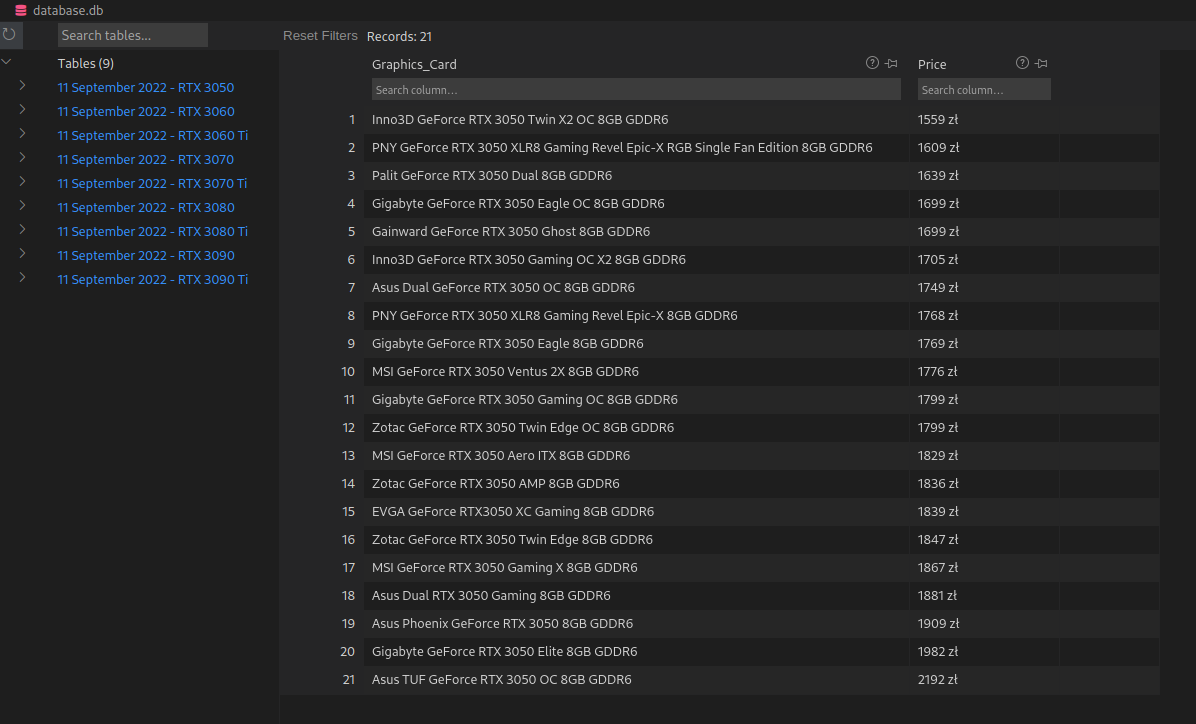
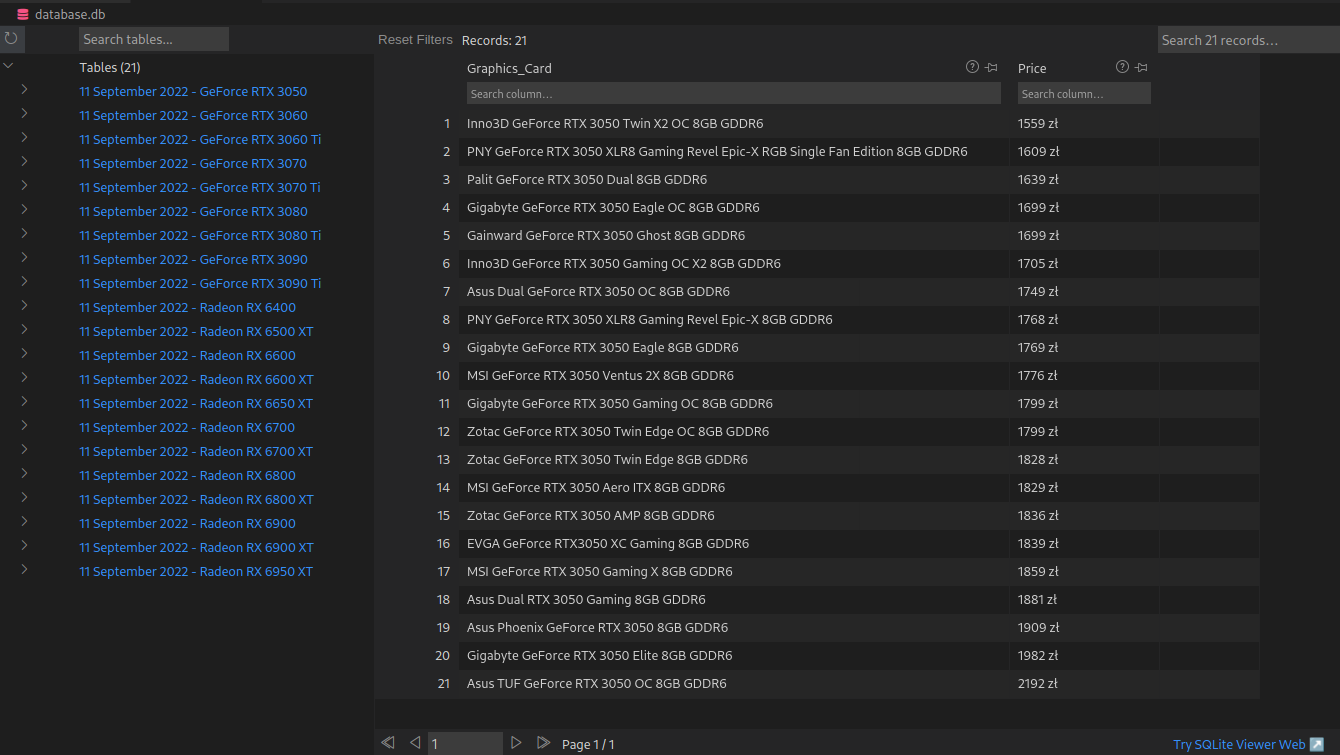
Added AMD Graphics Cards

diff --git a/morele.py b/morele.py
@@ -1,4 +1,5 @@
 import os
+from sys import prefix
 import time
 import sqlite3
 from datetime import datetime
@@ -70,14 +71,20 @@ class Morele(webdriver.Chrome):
         field.click()
 
         time.sleep(3)
-        down_arrow = self.find_element(By.CSS_SELECTOR, 'span[data-fcollection-toggle=".f-collection-item-8143-2835"]')
+
+        if model.startswith('30'):
+            down_arrow = self.find_element(By.CSS_SELECTOR, 'span[data-fcollection-toggle=".f-collection-item-8143-2835"]')
+            prefix = 'GeForce RTX'
+        else:
+            down_arrow = self.find_element(By.CSS_SELECTOR, 'span[data-fcollection-toggle=".f-collection-item-8143-2837"]')
+            prefix = 'Radeon RX'
         down_arrow.click()
 
         try:        
-            GPU_selection = self.find_element(By.CSS_SELECTOR, f'div[data-name="GeForce RTX {model}"')
+            GPU_selection = self.find_element(By.CSS_SELECTOR, f'div[data-name="{prefix} {model}"')
         except Exception as e:
             if e.__class__.__name__ == 'NoSuchElementException':
-                print(f'Cannot find GeForce RTX {model}')
+                print(f'Cannot find {prefix} {model}')
                 cards = {"none":"none"}
                 return cards
             else:
@@ -123,7 +130,11 @@ class Morele(webdriver.Chrome):
 
     def injecting_into_database(driver, dictio, model):
         dt = datetime.now().strftime("%d %B %Y")
-        table_name = f'{dt} - RTX {model}'
+        if model.startswith('30'):
+            prefix = 'GeForce RTX'
+        else:
+            prefix = 'Radeon RX'
+        table_name = f'{dt} - {prefix} {model}'
 
         con = sqlite3.connect('database.db')
         c = con.cursor()
@@ -141,7 +152,8 @@ class Morele(webdriver.Chrome):
         con.close()
 
 
-GPUs = ['3040', '3045', '3050', '3060', '3060 Ti', '3070', '3070 Ti', '3080', '3080 Ti', '3090', '3090 Ti']
+GPUs = ['3050', '3060', '3060 Ti', '3070', '3070 Ti', '3080', '3080 Ti', '3090', '3090 Ti', '6400', '6500 XT', '6600',
+        '6600 XT', '6650 XT', '6700', '6700 XT', '6800', '6800 XT', '6900', '6900 XT', '6950 XT']
 
 if __name__=='__main__':
     with Morele() as bot:
